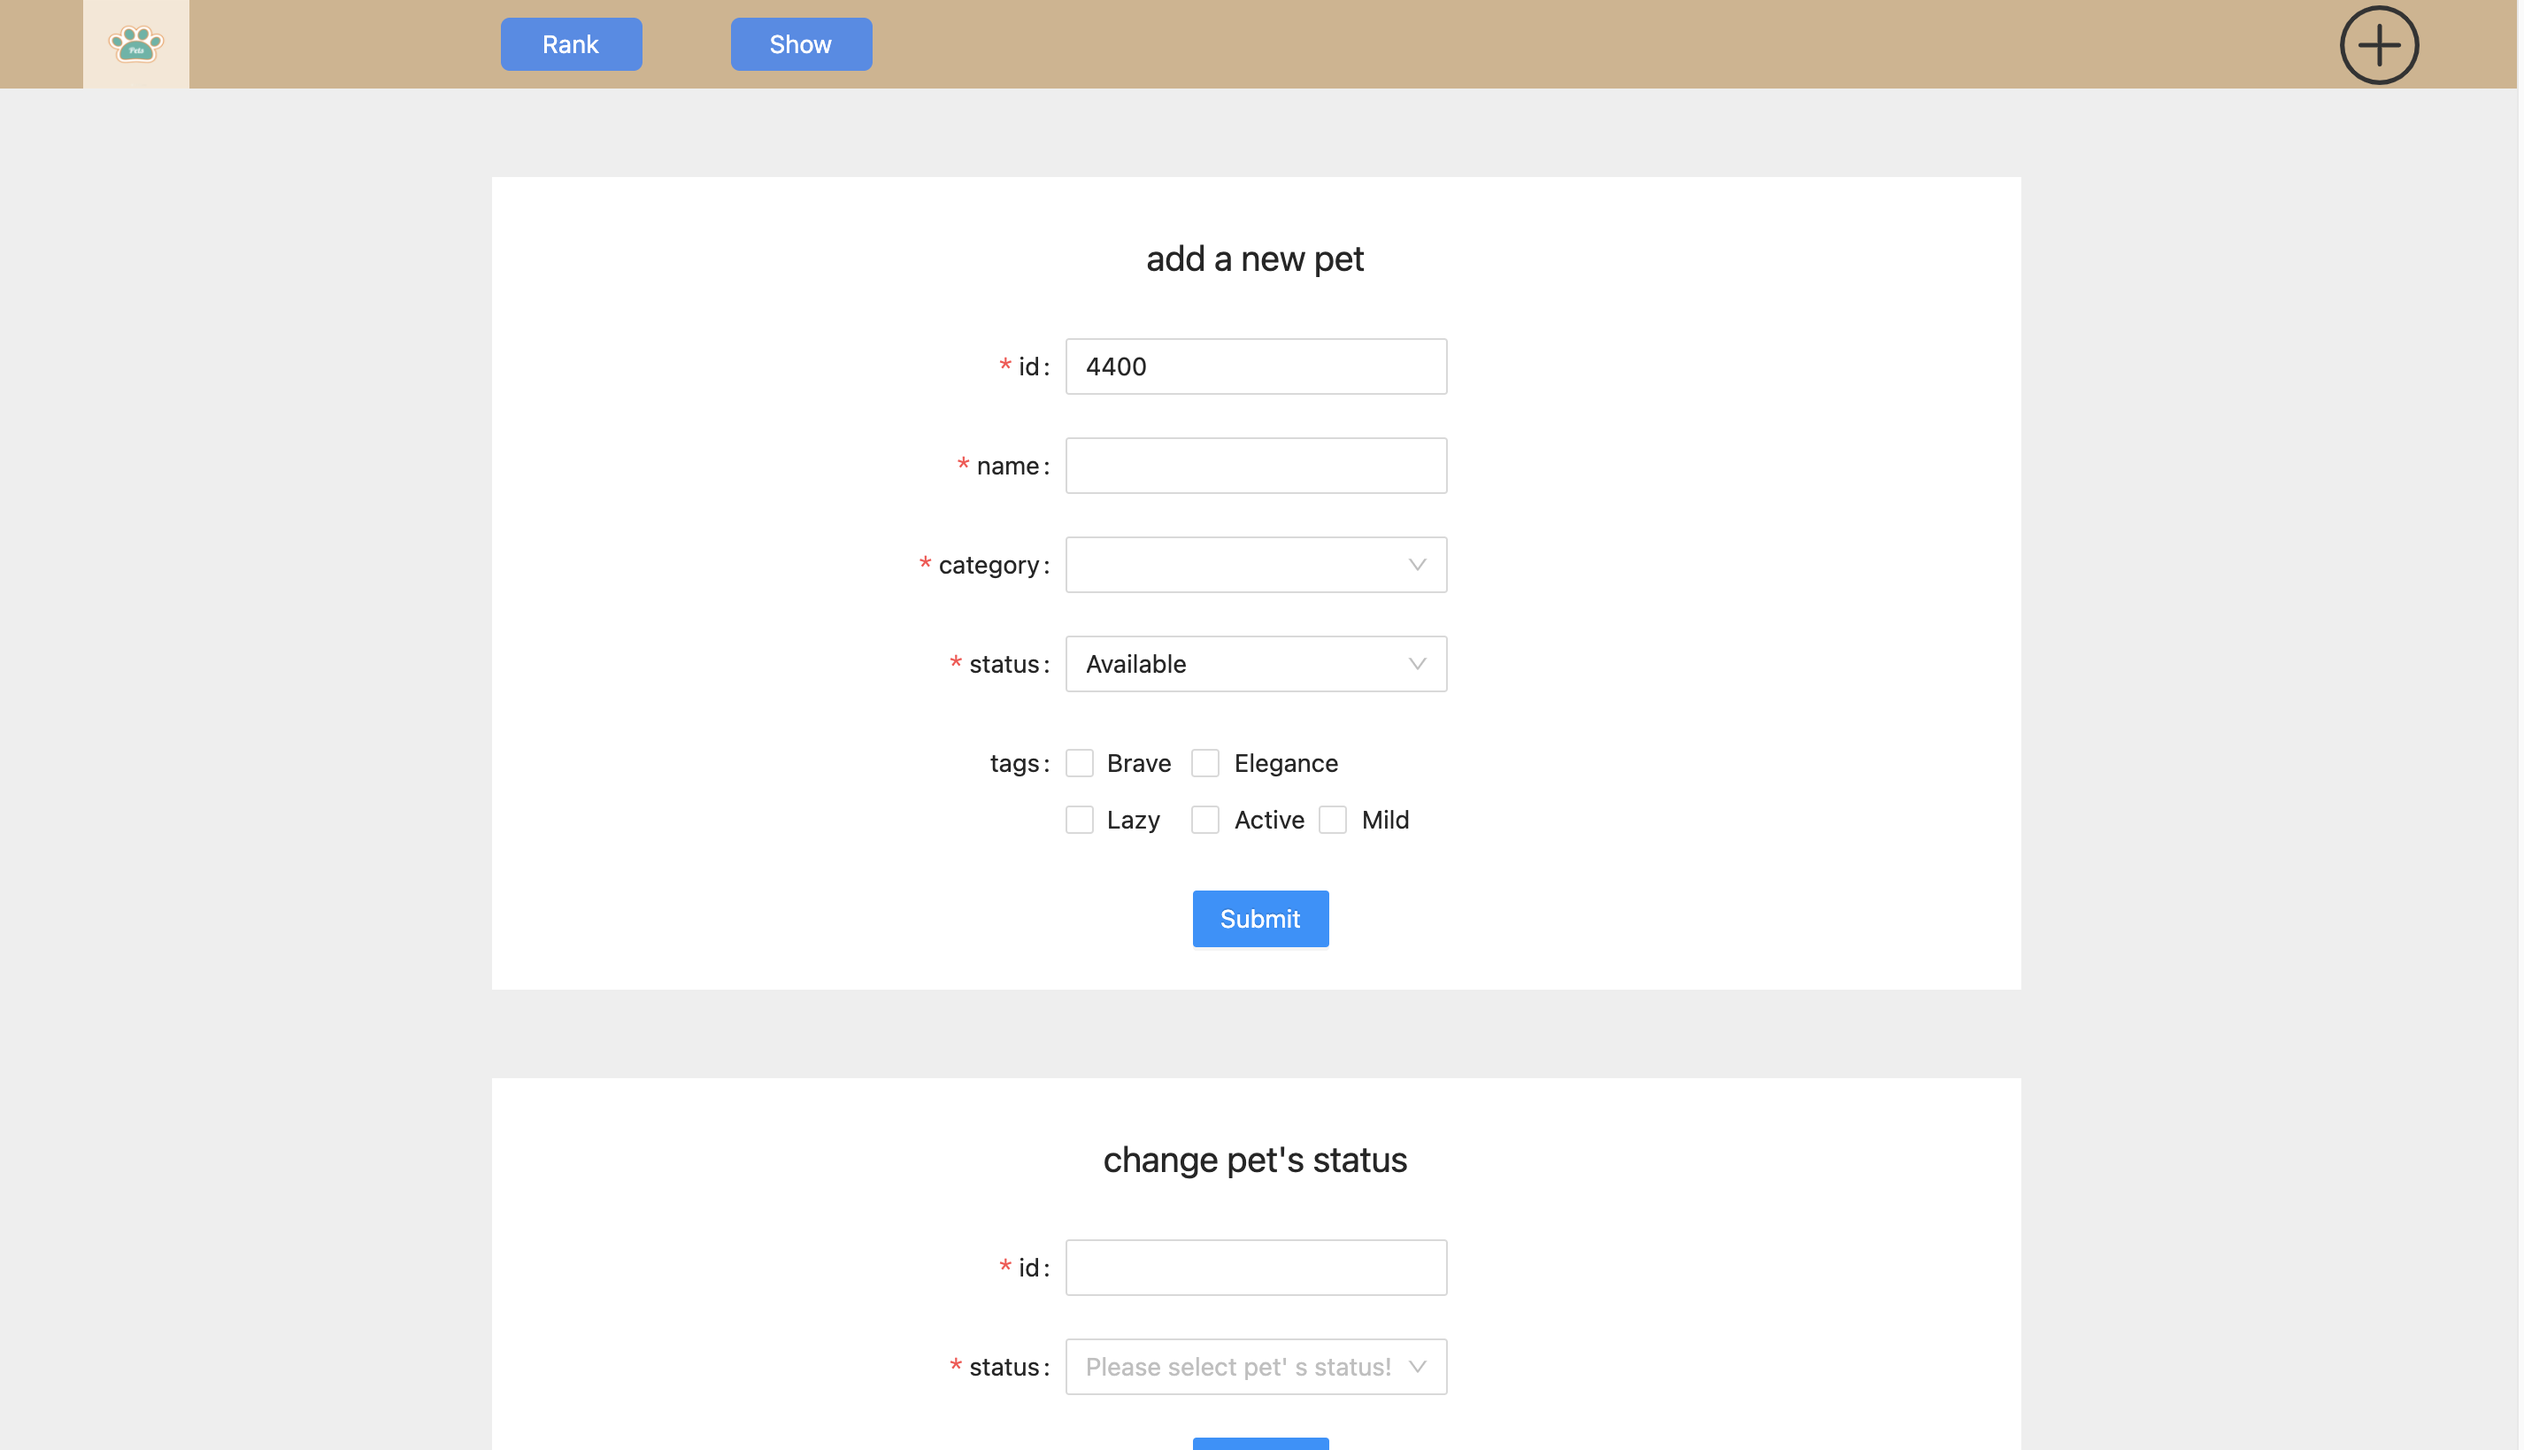
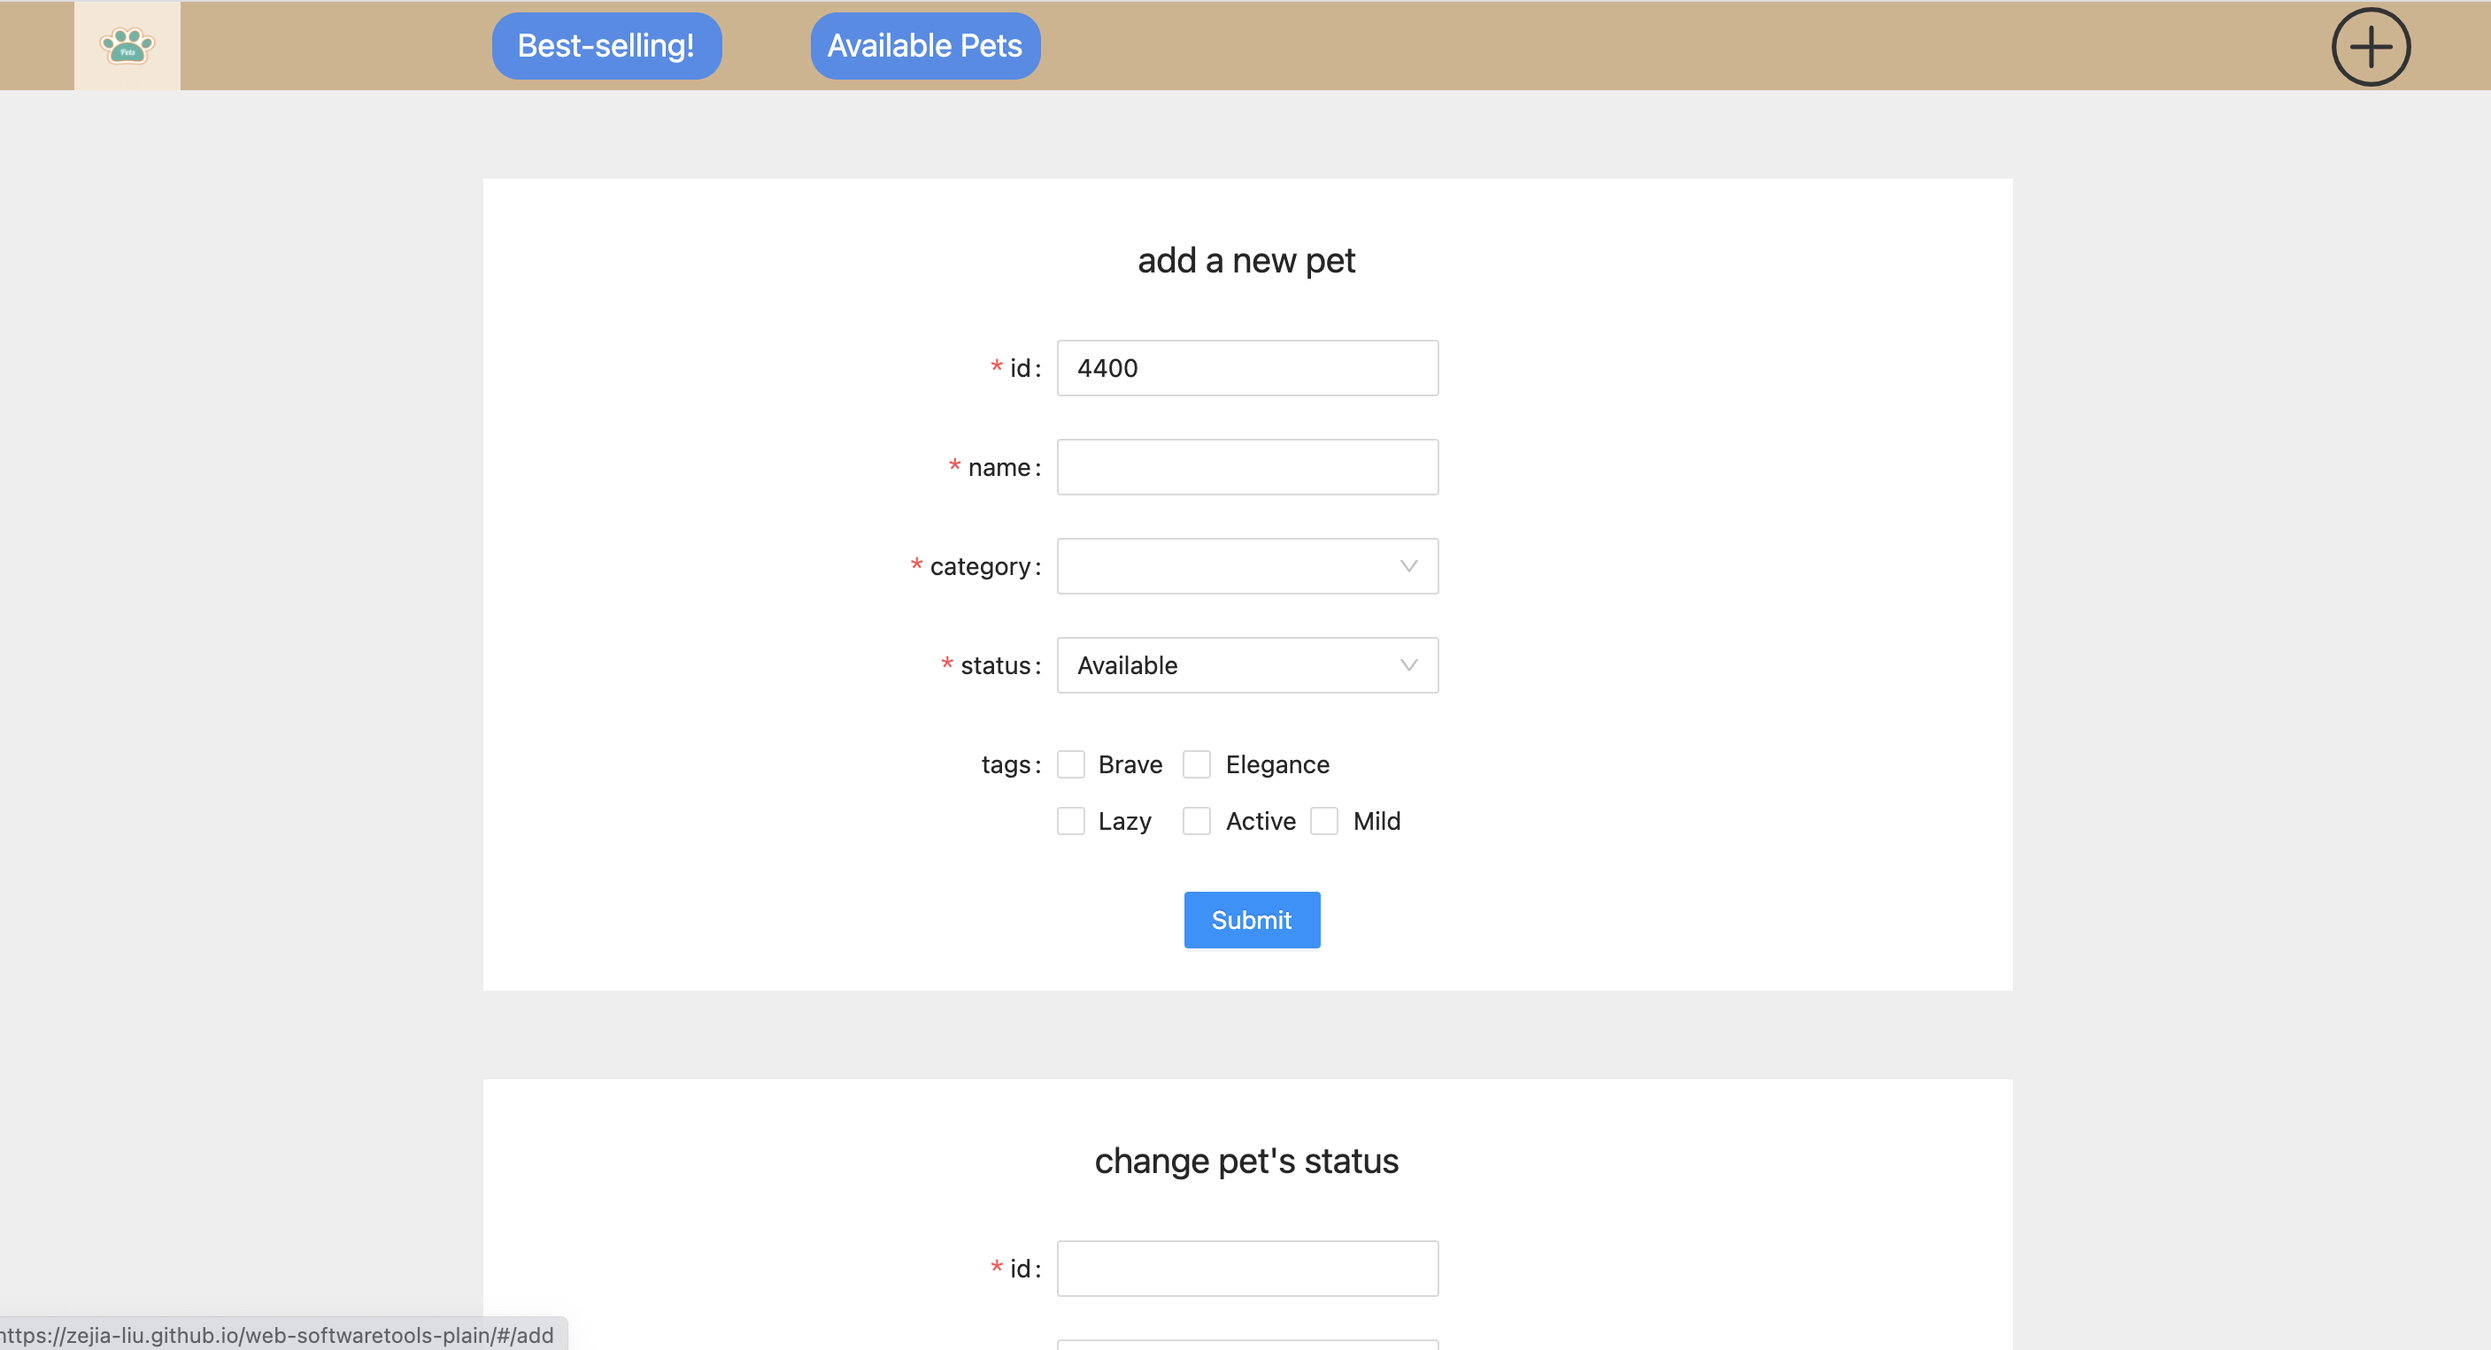
feat: update report

diff --git a/report/Front_End_UX.md b/report/Front_End_UX.md
@@ -214,13 +214,13 @@ The "available" webpage was designed merely to present pets for purchase. Howeve
 1. Picture:
 ![](../static/reportImg/ui-2.png)
 2. Layout:
-    For the webpage we use flex layout. Three main elements: logo (including rank & show button's wrapper's element and add icon).
-    The logo on the left is for decoration and main pages are "rank" and "sold". Therefore we put them in the center and put the "add" icon on the right. 
+
+    header一共有四个原素，分别是logo，best-selling的button和available-pets的button和一个add的icon。其中logo是展示作用，其他三个原素是页面跳转作用。由于header是起一个导航的作用，所以我们把原素都按照水平方向展开。从左到右的顺序依次是logo，best-selling，available-pets和add的icon。由于best-selling和available-pets是主要的页面，因此把他们放在较为中间的部分，并且占更大的体积。
 
 3. HCI event:
     
-    * When hovering aboce rank show and add icon, user can see change of icon pattern.
-    * Rank, Show, Add icons would appear differently on different webpages to help people know which webpage they are viewing. 
+    * When hovering aboce best-selling, available-pets and add icon, user can see change of icon pattern.
+    * Aest-selling button, Available-pets button, Add icons would appear differently on different webpages to help people know which webpage they are viewing. 
     * When clicking on these three icons, people can go to corresponding webpages.  
     
 4. Functions:
@@ -248,15 +248,49 @@ The "available" webpage was designed merely to present pets for purchase. Howeve
 4. Function：
 Add new pets and modify pet status.
 
-## 4. "show" webpage
+## 5. "available-pets" webpage
 1. Picture:
 ![](../static/reportImg/ui-4.png)
 2. Layout:
-    There are only two big elements in the whole "show" page: the filtered form, which we call fliterForm, and the pet list, which we call petList. These two big parts still adopt the vertical layout, with fliterForm above and petList below
-    The petList is composed of petCard. The petList adopts flex layout, so that the petCard is distributed with 2 elements per line, making the page structure more beautiful.
-    Petcard includes petImg, tags, ID, name and deleticon. Petimg displays different icons according to different pet categories. It is used to distinguish different pets, so we make it large and put it on the left of the card (just like ID card). 
-    Name is placed at the top of the right, and its font and size are modified so that it can be noticed at a glance. Tags are placed under name, and a "tag" icon is placed on the left of the text to indicate that it is a tag. As for the Pet ID, we put it in the upper left corner, and then the "delete" icon in the upper right corner.
 
+    整个abailable-pet页面只有三个元素，分别是tips,筛选的form表单，我们叫它fliterForm,还有宠物列表，我们叫它petList。整个页面采用垂直布局，从上到下依次是tip,fliterForm，petList
+
+    petList里面是由petCard组成的，petList采用flex布局，让petCard呈每行2个原素分布，让页面结构更加优美。
+    petCard包括了petImg，tags，id，name和deletIcon。petImg是根据宠物的category不同，展示不同的icon，它是用于区别不同宠物的，因此我们把它做的很大并且放在card的左边（就像id card一样）。name放在右边的上方，并且修改了它的字体还有大小，使得它能够一眼就被发现。tags放在name下面，并且在文字的左边放上一个tag的icon来表示它是一个标签。至于宠物的id，我们把它放到了左上角，然后删除的icon放到了右上角。
+3. 交互（event）
+
+    fliter-form的作用是可以根据用户的喜好，选择种类和tag，通过点击summit来筛选展示的宠物。
+    pet list是一个展示的作用。petCard右上角的deleteIcon，hover之后透明度会发生改变，而且鼠标的style也会发生改变，提示用户这里可以点击。点击deleteIcon，可以删除那个该petCard。
+
+
+4. 功能
+
+    1. 展示available-pets。
+    2. 通过用户的喜好，筛选宠物列表
+    3. 删除宠物
+
+## 4. "best-selling" webpage
+1. Picture:
+![](../static/reportImg/ui-5.png)
+2. Layout:
+
+    best-showing页面是由三个元素构成的，采用的是垂直的布局，从上到下依次是tip，排行榜还有petList
+
+
+    其中，tip和petList的设计和available-pet页面的设计基本一致，唯一的不同是petcard的右上角从原来的deleteIcon改为表示状态的圆圈icon，红色的icon表示宠物的状态是sold，黄色则标表示状态是pending。
+
+    排行榜的我们设计成一个领奖台的形式，从左到右我们一次设计第二名，第一名和第三名（实际上如果有第四第五名，我们也把他们放到第三名的栏目）。站在领奖台上面的是对应的宠物的种类的icon还有他们已经卖出去的个数（状态为sold和pending的宠物我们视为已经卖出）。领奖台的左右两边分别是两个草的icon，用于装饰。
+
+3. 交互（event）
+
+    通过鼠标hover在领奖台上的宠物icon，icon的透明度还有鼠标的style会发生变化，提示用户这些icon可以点击。通过点击这些icon，可以实现对available-pet页面的跳转，并且跳转的url带上category=${pet}的参数，使得available-pet页面的pet list只展示该category的宠物。
+    pet list也是一个展示的作用，每个petCard的右上角的icon的颜色代表状态
+
+4. 功能
+
+    1. 展示状态为sold和pending的宠物。
+    2. 对已经出售或者正在出售宠物根据他们的category进行排行，并展示在排行榜上。
+    3. 通过点击排行榜上的宠物icon，进行跳转
 # Design Choices
 ## 1. Framework choice 
 ### 1. sample vs framework

diff --git a/report/Front End UX.md b/report/Front End UX.md
@@ -226,7 +226,7 @@ The "available" webpage was designed merely to present pets for purchase. Howeve
 ![](../static/reportImg/ui-4.png)
 2. 布局:
 
-    整个Show页面只有两个大元素，分别是筛选的form表单，我们叫它fliterForm还有宠物列表，我们叫它petList。两个大部分还是采用了垂直布局，上面放着fliterForm，洗面放petList。
+    整个abailable-pet页面只有三个元素，分别是tips,筛选的form表单，我们叫它fliterForm,还有宠物列表，我们叫它petList。整个页面采用垂直布局，从上到下依次是tip,fliterForm，petList
 
     petList里面是由petCard组成的，petList采用flex布局，让petCard呈每行2个原素分布，让页面结构更加优美。
     petCard包括了petImg，tags，id，name和deletIcon。petImg是根据宠物的category不同，展示不同的icon，它是用于区别不同宠物的，因此我们把它做的很大并且放在card的左边（就像id card一样）。name放在右边的上方，并且修改了它的字体还有大小，使得它能够一眼就被发现。tags放在name下面，并且在文字的左边放上一个tag的icon来表示它是一个标签。至于宠物的id，我们把它放到了左上角，然后删除的icon放到了右上角。
